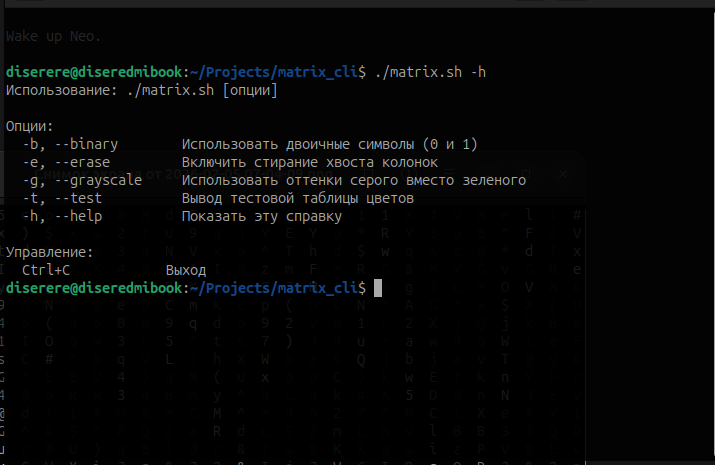
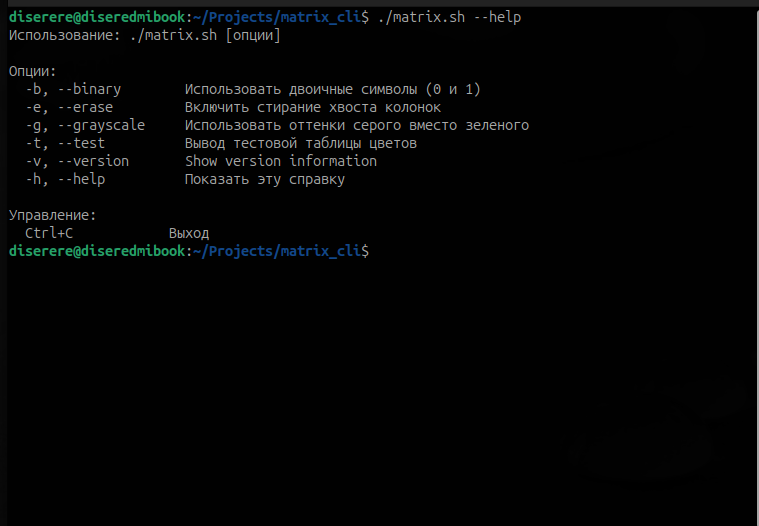
Add verson support to README, update screenshots

diff --git a/README.md b/README.md
@@ -46,6 +46,9 @@ chmod +x matrix.sh
 
 # Показать справку
 ./matrix.sh --help
+
+# Показать информацию о версии
+./matrix.sh --version
 ```
 
 ### Параметры командной строки
@@ -57,6 +60,7 @@ chmod +x matrix.sh
 | `--grayscale` | `-g` | Использовать оттенки серого вместо зелёного |
 | `--test` | `-t` | Показать тестовую таблицу цветов и выйти |
 | `--help` | `-h` | Показать справку по использованию |
+| `--version` | `-v` | Показать информацию о версии |
 
 ## Управление
 
@@ -138,6 +142,10 @@ chmod +x matrix.sh
 - `matrix.sh --help`
 
 ![matrix_help.png](images/matrix_help.png)
+
+- `matrix.sh --version`
+
+![matrix_help.png](images/matrix_version.png)
 
 
 ## Лицензия
